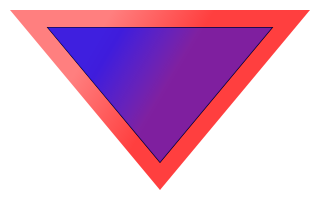
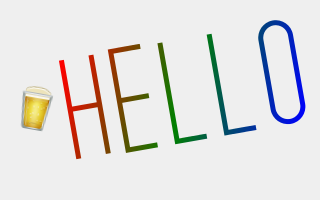
Update the Welcome example.

diff --git a/assets/default.css b/assets/default.css
@@ -1,1 +1,1 @@
-html,body,div,span,applet,object,iframe,h1,h2,h3,h4,h5,h6,p,blockquote,pre,a,abbr,acronym,address,big,cite,code,del,dfn,em,img,ins,kbd,q,s,samp,small,strike,strong,sub,sup,tt,var,b,u,i,center,dl,dt,dd,ol,ul,li,fieldset,form,label,legend,table,caption,tbody,tfoot,thead,tr,th,td,article,aside,canvas,details,embed,figure,figcaption,footer,header,hgroup,menu,nav,output,ruby,section,summary,time,mark,audio,video{margin:0;padding:0;border:0;font-size:100%;font:inherit;vertical-align:baseline}body{line-height:1}ol,ul{list-style:none}table{border-collapse:collapse;border-spacing:0}caption,th,td{text-align:left;font-weight:normal;vertical-align:middle}q,blockquote{quotes:none}q:before,q:after,blockquote:before,blockquote:after{content:"";content:none}a img{border:none}article,aside,details,figcaption,figure,footer,header,hgroup,menu,nav,section,summary{display:block}body{font-size:87.5%;line-height:1.4em}html > body{font-size:14px}body{font-family:"Trebuchet MS","Lucida Sans Unicode","Lucida Sans","Lucida Grande",Verdana,Helvetica,Arial,sans-serif}body{line-height:1.5;font-family:"Trebuchet MS","Lucida Sans Unicode","Lucida Sans","Lucida Grande",Verdana,Helvetica,Arial,sans-serif;color:#333;font-size:87.5%}h1,h2,h3,h4,h5,h6{font-weight:normal;color:#222}h1 img,h2 img,h3 img,h4 img,h5 img,h6 img{margin:0}h1{font-size:3em;line-height:1;margin-bottom:0.50em}h2{font-size:2em;margin-bottom:0.75em}h3{font-size:1.5em;line-height:1;margin-bottom:1.00em}h4{font-size:1.2em;line-height:1.25;margin-bottom:1.25em}h5{font-size:1em;font-weight:bold;margin-bottom:1.50em}h6{font-size:1em;font-weight:bold}p{margin:0 0 1.5em}p .left{display:inline;float:left;margin:1.5em 1.5em 1.5em 0;padding:0}p .right{display:inline;float:right;margin:1.5em 0 1.5em 1.5em;padding:0}a{text-decoration:underline;color:#369}a:visited{color:#407fbf}a:focus{color:#0d1926}a:hover{color:#132639}a:active{color:#0d1926}blockquote{margin:1.5em;color:#666;font-style:italic}strong,dfn{font-weight:bold}em,dfn{font-style:italic}sup,sub{line-height:0}abbr,acronym{border-bottom:1px dotted #666666}address{margin:0 0 1.5em;font-style:italic}del{color:#666}pre{margin:1.5em 0;white-space:pre}pre,code,tt{font:1em "andale mono","lucida console",monospace;line-height:1.5}li ul,li ol{margin:0}ul,ol{margin:0 1.5em 1.5em 0;padding-left:1.5em}ul{list-style-type:disc}ol{list-style-type:decimal}dl{margin:0 0 1.5em 0}dl dt{font-weight:bold}dd{margin-left:1.5em}table{margin-bottom:1.4em;width:100%}th{font-weight:bold}thead th{background:#c3d9ff}th,td,caption{padding:4px 10px 4px 5px}table.striped tr:nth-child(even) td,table tr.even td{background:#e5ecf9}tfoot{font-style:italic}caption{background:#eee}.quiet{color:#666}.loud{color:#111}h1,h2,h3,h4,h5,h6{font-family:Garamond,Georgia,"Palatino Linotype",Palatino,"Book Antiqua","Times New Roman",times,serif}body{background:rgba(0,0,0,0.25);text-align:center}h1{border-bottom:1px solid rgba(0,0,0,0.25)}h2{border-bottom:1px dotted rgba(0,0,0,0.25)}#main{background:#fff;margin:0 auto;text-align:left;padding:1.4em;max-width:60em;-moz-box-shadow:rgba(0,0,0,0.25) 0 0 20px;-webkit-box-shadow:rgba(0,0,0,0.25) 0 0 20px;-o-box-shadow:rgba(0,0,0,0.25) 0 0 20px;box-shadow:rgba(0,0,0,0.25) 0 0 20px}pre{padding:1.4em;background:rgba(128,128,255,0.05);-moz-border-radius:5px;-webkit-border-radius:5px;-o-border-radius:5px;-ms-border-radius:5px;-khtml-border-radius:5px;border-radius:5px;-moz-box-shadow:rgba(0,0,0,0.25) 0 0 10px inset;-webkit-box-shadow:rgba(0,0,0,0.25) 0 0 10px inset;-o-box-shadow:rgba(0,0,0,0.25) 0 0 10px inset;box-shadow:rgba(0,0,0,0.25) 0 0 10px inset}pre code{padding:0;background:transparent;-moz-box-shadow:none;-webkit-box-shadow:none;-o-box-shadow:none;box-shadow:none}code{padding:0.15em 0.7em;background:rgba(128,128,255,0.1);-moz-border-radius:4px;-webkit-border-radius:4px;-o-border-radius:4px;-ms-border-radius:4px;-khtml-border-radius:4px;border-radius:4px;-moz-box-shadow:rgba(0,0,0,0.25) 0 0 2px inset;-webkit-box-shadow:rgba(0,0,0,0.25) 0 0 2px inset;-o-box-shadow:rgba(0,0,0,0.25) 0 0 2px inset;box-shadow:rgba(0,0,0,0.25) 0 0 2px inset}
+html,body,div,span,applet,object,iframe,h1,h2,h3,h4,h5,h6,p,blockquote,pre,a,abbr,acronym,address,big,cite,code,del,dfn,em,img,ins,kbd,q,s,samp,small,strike,strong,sub,sup,tt,var,b,u,i,center,dl,dt,dd,ol,ul,li,fieldset,form,label,legend,table,caption,tbody,tfoot,thead,tr,th,td,article,aside,canvas,details,embed,figure,figcaption,footer,header,hgroup,menu,nav,output,ruby,section,summary,time,mark,audio,video{margin:0;padding:0;border:0;font-size:100%;font:inherit;vertical-align:baseline}body{line-height:1}ol,ul{list-style:none}table{border-collapse:collapse;border-spacing:0}caption,th,td{text-align:left;font-weight:normal;vertical-align:middle}q,blockquote{quotes:none}q:before,q:after,blockquote:before,blockquote:after{content:"";content:none}a img{border:none}article,aside,details,figcaption,figure,footer,header,hgroup,menu,nav,section,summary{display:block}body{font-size:87.5%;line-height:1.4em}html > body{font-size:14px}body{font-family:"Trebuchet MS","Lucida Sans Unicode","Lucida Sans","Lucida Grande",Verdana,Helvetica,Arial,sans-serif}body{line-height:1.5;font-family:"Trebuchet MS","Lucida Sans Unicode","Lucida Sans","Lucida Grande",Verdana,Helvetica,Arial,sans-serif;color:#333;font-size:87.5%}h1,h2,h3,h4,h5,h6{font-weight:normal;color:#222}h1 img,h2 img,h3 img,h4 img,h5 img,h6 img{margin:0}h1{font-size:3em;line-height:1;margin-bottom:0.50em}h2{font-size:2em;margin-bottom:0.75em}h3{font-size:1.5em;line-height:1;margin-bottom:1.00em}h4{font-size:1.2em;line-height:1.25;margin-bottom:1.25em}h5{font-size:1em;font-weight:bold;margin-bottom:1.50em}h6{font-size:1em;font-weight:bold}p{margin:0 0 1.5em}p .left{display:inline;float:left;margin:1.5em 1.5em 1.5em 0;padding:0}p .right{display:inline;float:right;margin:1.5em 0 1.5em 1.5em;padding:0}a{text-decoration:underline;color:#369}a:visited{color:#407fbf}a:focus{color:#0d1926}a:hover{color:#132639}a:active{color:#0d1926}blockquote{margin:1.5em;color:#666;font-style:italic}strong,dfn{font-weight:bold}em,dfn{font-style:italic}sup,sub{line-height:0}abbr,acronym{border-bottom:1px dotted #666666}address{margin:0 0 1.5em;font-style:italic}del{color:#666}pre{margin:1.5em 0;white-space:pre}pre,code,tt{font:1em "andale mono","lucida console",monospace;line-height:1.5}li ul,li ol{margin:0}ul,ol{margin:0 1.5em 1.5em 0;padding-left:1.5em}ul{list-style-type:disc}ol{list-style-type:decimal}dl{margin:0 0 1.5em 0}dl dt{font-weight:bold}dd{margin-left:1.5em}table{margin-bottom:1.4em;width:100%}th{font-weight:bold}thead th{background:#c3d9ff}th,td,caption{padding:4px 10px 4px 5px}table.striped tr:nth-child(even) td,table tr.even td{background:#e5ecf9}tfoot{font-style:italic}caption{background:#eee}.quiet{color:#666}.loud{color:#111}h1,h2,h3,h4,h5,h6{font-family:Garamond,Georgia,"Palatino Linotype",Palatino,"Book Antiqua","Times New Roman",times,serif}body{background:rgba(0,0,0,0.25);text-align:center}h1{border-bottom:1px solid rgba(0,0,0,0.25)}h2{border-bottom:1px dotted rgba(0,0,0,0.25)}#main{background:#fff;margin:0 auto;text-align:left;padding:1.4em;max-width:60em;-moz-box-shadow:rgba(0,0,0,0.25) 0 0 20px;-webkit-box-shadow:rgba(0,0,0,0.25) 0 0 20px;-o-box-shadow:rgba(0,0,0,0.25) 0 0 20px;box-shadow:rgba(0,0,0,0.25) 0 0 20px}pre{padding:1.4em;background:rgba(128,128,255,0.05);overflow:auto;-moz-border-radius:5px;-webkit-border-radius:5px;-o-border-radius:5px;-ms-border-radius:5px;-khtml-border-radius:5px;border-radius:5px;-moz-box-shadow:rgba(0,0,0,0.25) 0 0 10px inset;-webkit-box-shadow:rgba(0,0,0,0.25) 0 0 10px inset;-o-box-shadow:rgba(0,0,0,0.25) 0 0 10px inset;box-shadow:rgba(0,0,0,0.25) 0 0 10px inset}pre code{padding:0;background:transparent;-moz-box-shadow:none;-webkit-box-shadow:none;-o-box-shadow:none;box-shadow:none}code{padding:0.15em 0.7em;background:rgba(128,128,255,0.1);-moz-border-radius:4px;-webkit-border-radius:4px;-o-border-radius:4px;-ms-border-radius:4px;-khtml-border-radius:4px;border-radius:4px;-moz-box-shadow:rgba(0,0,0,0.25) 0 0 2px inset;-webkit-box-shadow:rgba(0,0,0,0.25) 0 0 2px inset;-o-box-shadow:rgba(0,0,0,0.25) 0 0 2px inset;box-shadow:rgba(0,0,0,0.25) 0 0 2px inset}

diff --git a/index.html b/index.html
@@ -48,18 +48,25 @@ You can usually install these using your OS package manager.</p>
 
 html {
   background: canvas(320, 200,
-    triangle(10, 10, 310, 10, 160, 190)
-    brush(10, 10, 160, 100, rgba(red, 0.5) 50%, rgba(red, 0.75))
-    fill
-    reset
+    brush(#efefef)
+    paint
     save
-      translate(40, 20)
-      scale(0.75, 0.75)
-      triangle(10, 10, 310, 10, 160, 190)
-      brush(black)
+      rotate(10deg)
+      translate(20, 0)
+      put-image('beer.png', 10, 76)
+    restore
+    reset
+    line-width(5)
+    save
+      rotate(-10deg)
+      translate(50, 70)
+      move-to(0, 0)    line-to(0, 100)   line-to(0, 50)  line-to(30, 50) line-to(30, 0)  line-to(30, 100)
+      move-to(80, 0)   line-to(50, 0)    line-to(50, 50) line-to(80, 50) line-to(50, 50) line-to(50, 100) line-to(80, 100)
+      move-to(100, 0)  line-to(100, 100) line-to(130, 100)
+      move-to(150, 0)  line-to(150, 100) line-to(180, 100)
+      move-to(200, 15) arc(215, 15, 15, 180, 0) line-to(230, 85) arc(215, 85, 15, 0, 180) line-to(200, 15)
+      brush(0, 0, 230, 100, red, green, blue)
       stroke
-      brush(10, 10, 160, 100, rgba(blue, 0.75) 50%, rgba(blue, 0.5))
-      fill
     restore
   ) no-repeat 50% 50%;
 }

diff --git a/assets/default.scss b/assets/default.scss
@@ -54,6 +54,7 @@ h2 { border-bottom: 1px dotted rgba(0, 0, 0, 0.25); }
 pre {
   padding: rhythm();
   background: rgba(128, 128, 255, 0.05);
+  overflow: auto;
   @include border-radius(5px);
   @include box-shadow(rgba(0, 0, 0, 0.25) 0 0 10px inset);
 

diff --git a/index.md b/index.md
@@ -41,18 +41,25 @@ Example
 
 html {
   background: canvas(320, 200,
-    triangle(10, 10, 310, 10, 160, 190)
-    brush(10, 10, 160, 100, rgba(red, 0.5) 50%, rgba(red, 0.75))
-    fill
-    reset
+    brush(#efefef)
+    paint
     save
-      translate(40, 20)
-      scale(0.75, 0.75)
-      triangle(10, 10, 310, 10, 160, 190)
-      brush(black)
+      rotate(10deg)
+      translate(20, 0)
+      put-image('beer.png', 10, 76)
+    restore
+    reset
+    line-width(5)
+    save
+      rotate(-10deg)
+      translate(50, 70)
+      move-to(0, 0)    line-to(0, 100)   line-to(0, 50)  line-to(30, 50) line-to(30, 0)  line-to(30, 100)
+      move-to(80, 0)   line-to(50, 0)    line-to(50, 50) line-to(80, 50) line-to(50, 50) line-to(50, 100) line-to(80, 100)
+      move-to(100, 0)  line-to(100, 100) line-to(130, 100)
+      move-to(150, 0)  line-to(150, 100) line-to(180, 100)
+      move-to(200, 15) arc(215, 15, 15, 180, 0) line-to(230, 85) arc(215, 85, 15, 0, 180) line-to(200, 15)
+      brush(0, 0, 230, 100, red, green, blue)
       stroke
-      brush(10, 10, 160, 100, rgba(blue, 0.75) 50%, rgba(blue, 0.5))
-      fill
     restore
   ) no-repeat 50% 50%;
 }
